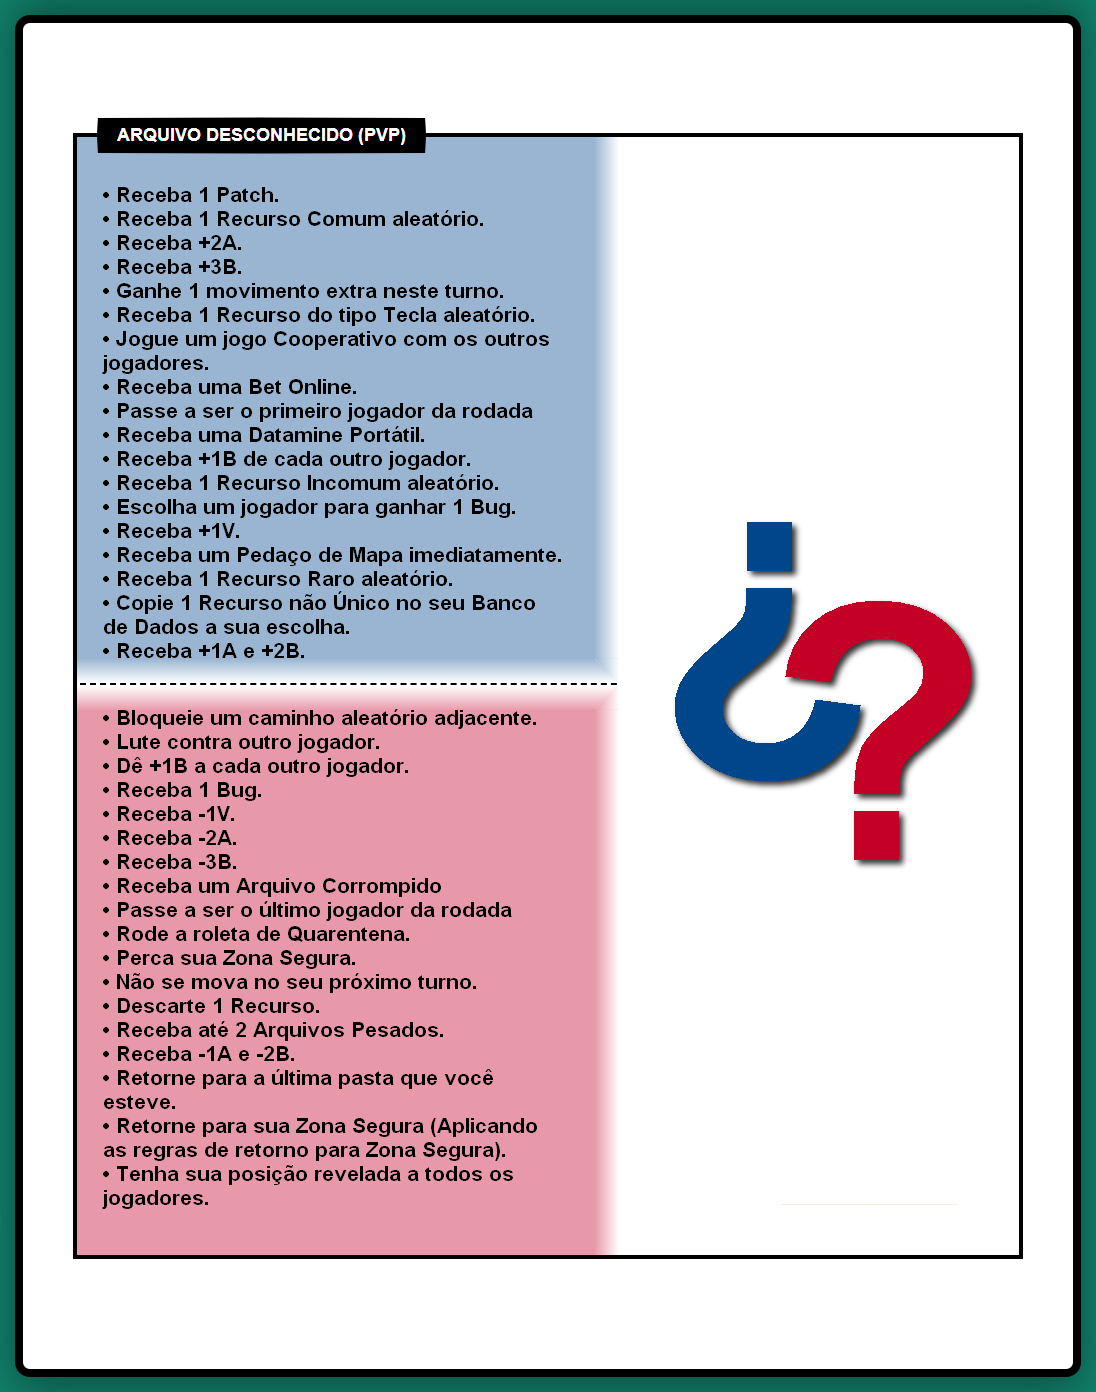
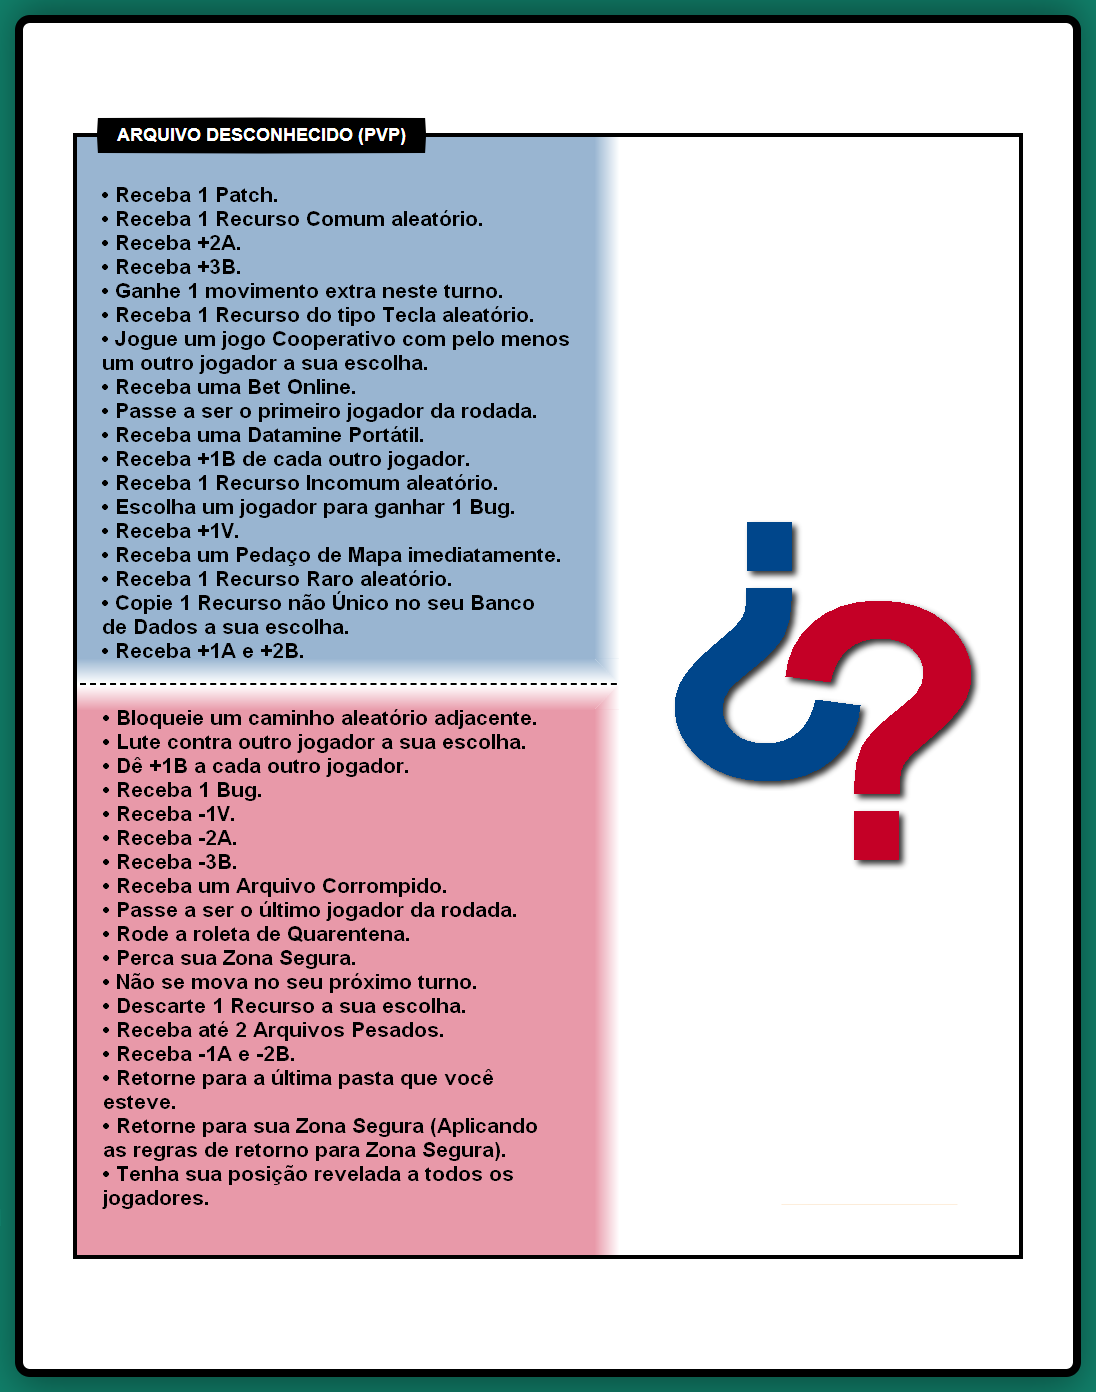
Add files via upload

diff --git a/Roletas - Datamining.html b/Roletas - Datamining.html
@@ -335,7 +335,7 @@
             { texto: "Receba 1 Patch", cor: "#00468B", corTexto: "#FFFFFF", peso: 1 },
             { texto: "Bloqueie um caminho aleatório adjacente", cor: "#C40026", corTexto: "#FFFFFF", peso: 1 },
             { texto: "Receba 1 Recurso Comum aleatório", cor: "#00468B", corTexto: "#FFFFFF", peso: 1 },
-            { texto: "Lute contra outro jogador", cor: "#C40026", corTexto: "#FFFFFF", peso: 1 },
+            { texto: "Lute contra outro jogador a sua escolha", cor: "#C40026", corTexto: "#FFFFFF", peso: 1 },
             { texto: "Receba +2A", cor: "#00468B", corTexto: "#FFFFFF", peso: 1 },
             { texto: "Dê +1B a cada outro jogador", cor: "#C40026", corTexto: "#FFFFFF", peso: 1 },
             { texto: "Receba +3B", cor: "#00468B", corTexto: "#FFFFFF", peso: 1 },
@@ -344,7 +344,7 @@
             { texto: "Receba -1V", cor: "#C40026", corTexto: "#FFFFFF", peso: 1 },
             { texto: "Receba 1 Recurso do tipo Tecla aleatório", cor: "#00468B", corTexto: "#FFFFFF", peso: 1 },
             { texto: "Receba -2A", cor: "#C40026", corTexto: "#FFFFFF", peso: 1 },
-            { texto: "Jogue um jogo Cooperativo com os outros jogadores", cor: "#00468B", corTexto: "#FFFFFF", peso: 1 },
+            { texto: "Jogue um jogo Cooperativo com pelo menos um outro jogador a sua escolha", cor: "#00468B", corTexto: "#FFFFFF", peso: 1 },
             { texto: "Receba -3B", cor: "#C40026", corTexto: "#FFFFFF", peso: 1 },
 			{ texto: "Receba uma Bet Online", cor: "#00468B", corTexto: "#FFFFFF", peso: 1 },
             { texto: "Receba um Arquivo Corrompido", cor: "#C40026", corTexto: "#FFFFFF", peso: 1 },
@@ -404,7 +404,7 @@
             { texto: "Recebam 1 Recurso Raro aleatório", cor: "#00468B", corTexto: "#FFFFFF", peso: 1 },
             { texto: "O próximo recurso que o grupo for comprar custará +2B", cor: "#C40026", corTexto: "#FFFFFF", peso: 1 },
             { texto: "Copie 1 Recurso não Único do Banco de Dados a escolha do grupo", cor: "#00468B", corTexto: "#FFFFFF", peso: 1 },
-            { texto: "Retorne um jogador aleatório para sua Zona Segura (Aplicando as regras de retorno para Zona Segura)", cor: "#C40026", corTexto: "#FFFFFF", peso: 1 },
+            { texto: "Retornem um jogador aleatório para sua Zona Segura (Aplicando as regras de retorno para Zona Segura)", cor: "#C40026", corTexto: "#FFFFFF", peso: 1 },
             { texto: "Receba +2A e +3B", cor: "#00468B", corTexto: "#FFFFFF", peso: 1 },
             { texto: "Rodem esta roleta +2 vezes e fiquem com o pior resultado (A decisão do SO)", cor: "#C40026", corTexto: "#FFFFFF", peso: 1 }
         ]},
